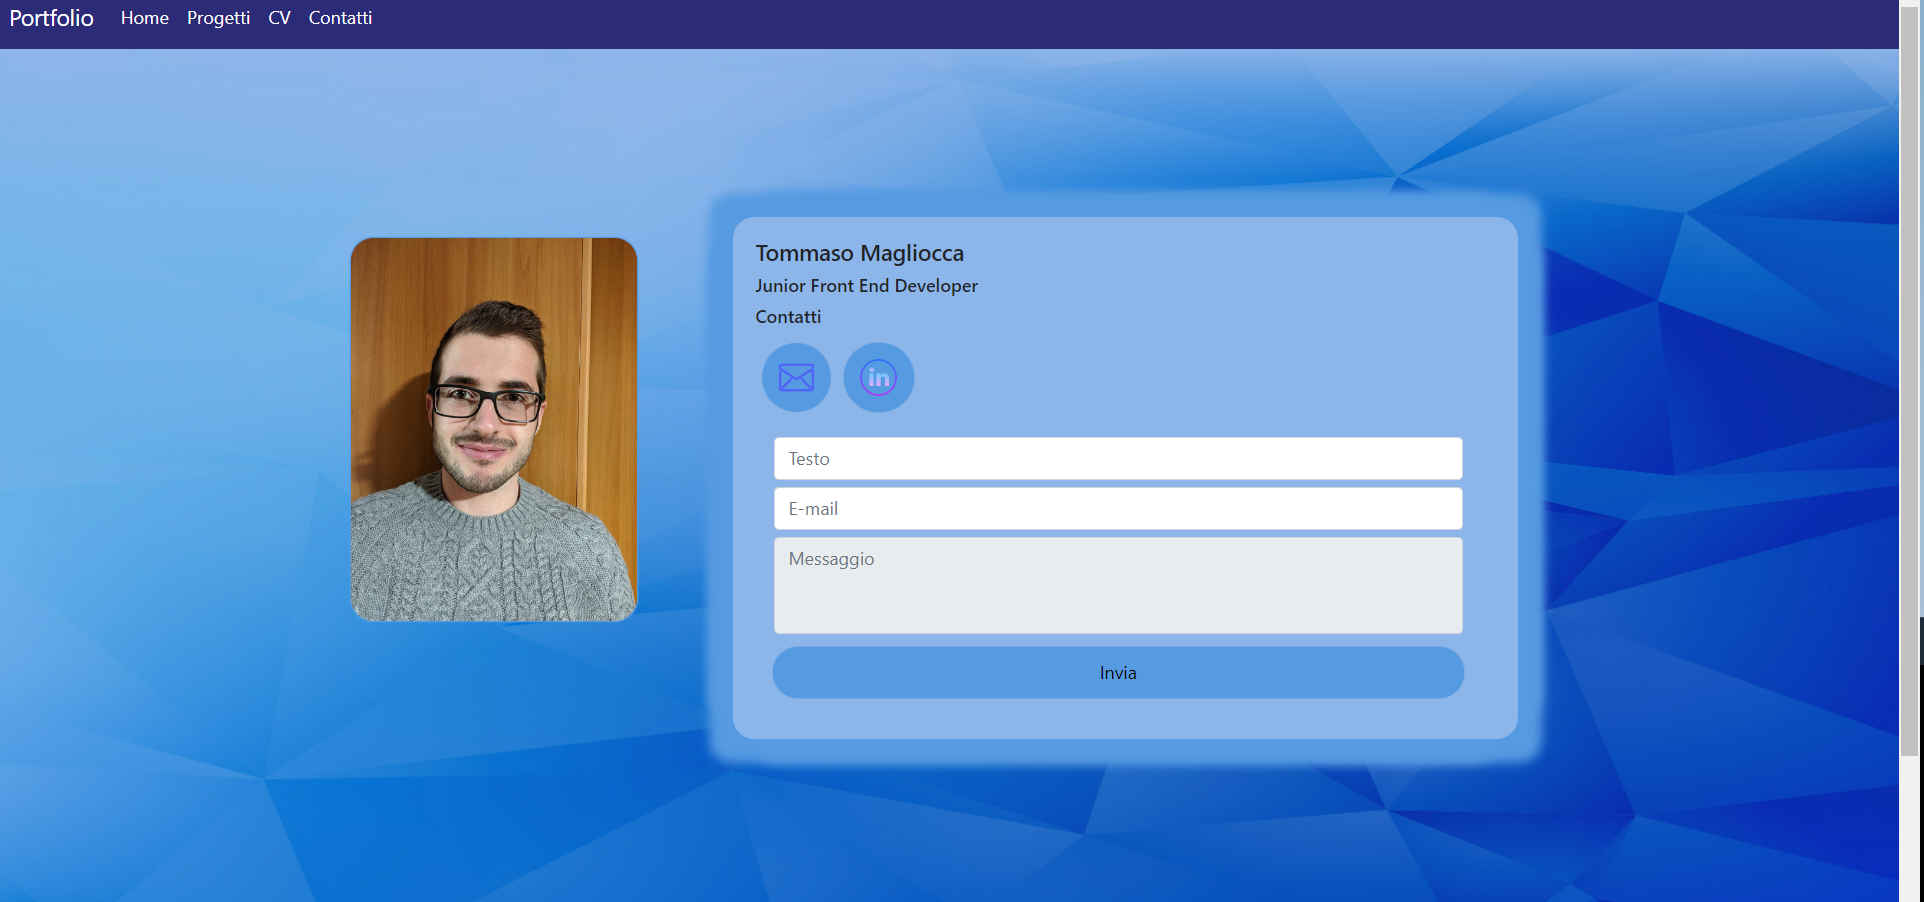
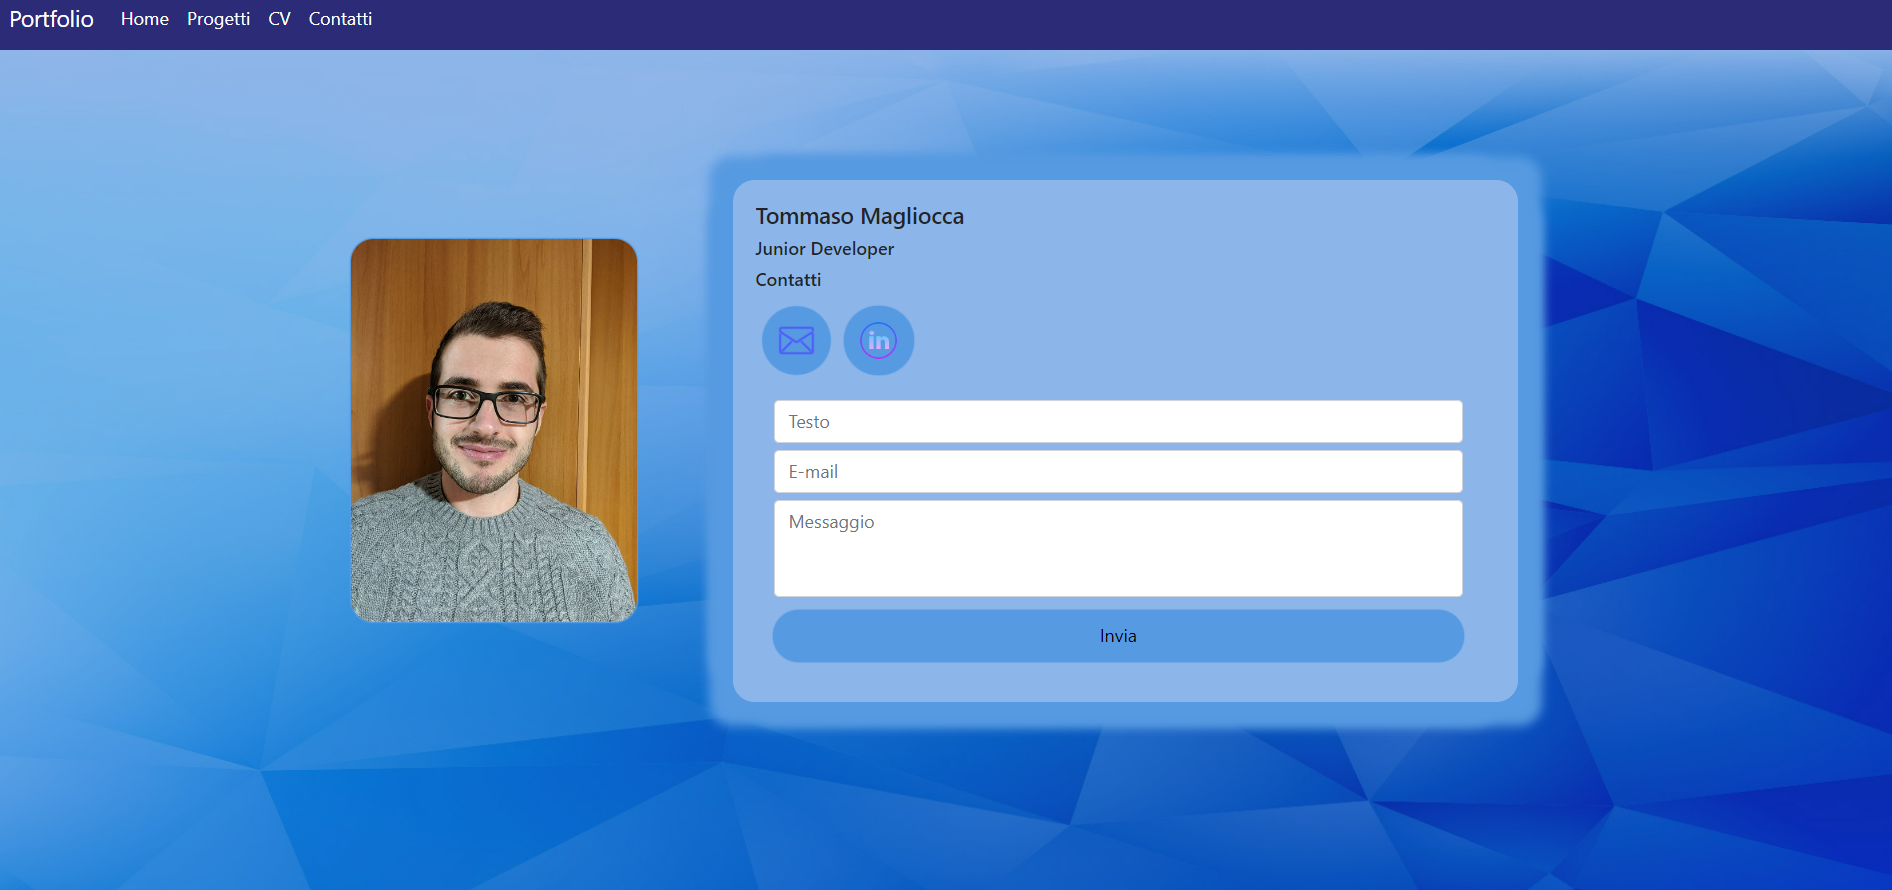
Aggiornamento
sistemato ruolo, modificato le foto rendendole più leggere, modificate le foto del carosello in base alle ultime modifiche del portfolio

diff --git a/src/app/pages/progetti/progetti.component.html b/src/app/pages/progetti/progetti.component.html
@@ -2,7 +2,8 @@
 <div class="row" id="container">
   <div class="col-1 col-xs-1 col-md-1"></div>
   <div class="col-10 col-xs-10 col-md-10" id="oggetto">
-    <h3>Progetti effettuati da Junior Front End Developer</h3>
+    <h3>Progetti effettuati da Junior Developer</h3>
+    <hr/>
       <p>Web-App piattaforma Shop-Online <br>
         …Work-In-Progress…<br></p>
         <hr/>
@@ -17,7 +18,8 @@
             <button type="button" data-bs-target="#carouselExampleIndicators" data-bs-slide-to="3" aria-label="Slide 4"></button>
             <button type="button" data-bs-target="#carouselExampleIndicators" data-bs-slide-to="4" aria-label="Slide 5"></button>
             <button type="button" data-bs-target="#carouselExampleIndicators" data-bs-slide-to="5" aria-label="Slide 6"></button>
-            <button type="button" data-bs-target="#carouselExampleIndicators" data-bs-slide-to="6" aria-label="Slide 7"></button>
+            <button type="button" data-bs-target="#carouselExampleIndicators" data-bs-slide-to="6" aria-label="Slide 8"></button>
+            <button type="button" data-bs-target="#carouselExampleIndicators" data-bs-slide-to="7" aria-label="Slide 7"></button>
           </div>
           <div class="carousel-inner">
             <div class="carousel-item active">
@@ -34,6 +36,9 @@
             </div>
             <div class="carousel-item">
               <img src="../../../assets/img/carosello/4.png" class="d-block w-100" alt="...">
+            </div>
+            <div class="carousel-item">
+              <img src="../../../assets/img/carosello/8.png" class="d-block w-100" alt="...">
             </div>
             <div class="carousel-item">
               <img src="../../../assets/img/carosello/5.png" class="d-block w-100" alt="...">

diff --git a/src/app/pages/home/home.component.html b/src/app/pages/home/home.component.html
@@ -17,8 +17,9 @@
       <button data-bs-toggle="modal" data-bs-target="#css">CSS</button>
       <button data-bs-toggle="modal" data-bs-target="#bootstrap">Bootstrap</button>
       <button data-bs-toggle="modal" data-bs-target="#javascript">Javascript</button>
-      <button data-bs-toggle="modal" data-bs-target="#angular">Angular</button>
-      <button data-bs-toggle="modal" data-bs-target="#jquery">Jquery</button> <br/>
+      <button data-bs-toggle="modal" data-bs-target="#jquery">Jquery</button>
+      <button data-bs-toggle="modal" data-bs-target="#angular">Angular</button> <br/>
+      
       <button data-bs-toggle="modal" data-bs-target="#java">Java</button>
     </div>
       <!--Modale HTML-->
@@ -48,7 +49,7 @@
               <button type="button" class="btn-close" data-bs-dismiss="modal" aria-label="Close"></button>
             </div>
             <div class="modal-body">
-              Utilizzato per lo sviluppo di questa web app e per lo sviluppo degli altri miei progetti.
+              Fogli di stile per gestire la grafica di questa web app e per altri miei progetti.
             </div>
             <div class="modal-footer">
               <button type="button" class="btn btn-secondary" data-bs-dismiss="modal">Close</button>

diff --git a/src/app/pages/home/home.component.ts b/src/app/pages/home/home.component.ts
@@ -8,7 +8,7 @@ import { Component } from '@angular/core';
 export class HomeComponent {
 
   titolo: string = 'Tommaso Magliocca';
-  ruolo: string = 'Junior Front End Developer';
+  ruolo: string = 'Junior Developer';
   paragrafo: string = `Da sempre sono un appassionato di tutto ciò che
   riguarda l'informatica. Per coltivare la mia passione e
   per aumentare le mie competenze tecniche ho

diff --git a/src/app/pages/contatti/contatti.component.ts b/src/app/pages/contatti/contatti.component.ts
@@ -8,7 +8,7 @@ import { Component } from '@angular/core';
 export class ContattiComponent {
 
   titolo: string = 'Tommaso Magliocca';
-  ruolo: string = 'Junior Front End Developer';
+  ruolo: string = 'Junior Developer';
   mail: string = 'tommaso.magliocca@gmail.com';
   telefono: number = 3473644674;
   linkedin: string = 'https://www.linkedin.com/in/tommaso-magliocca-281275154/';
